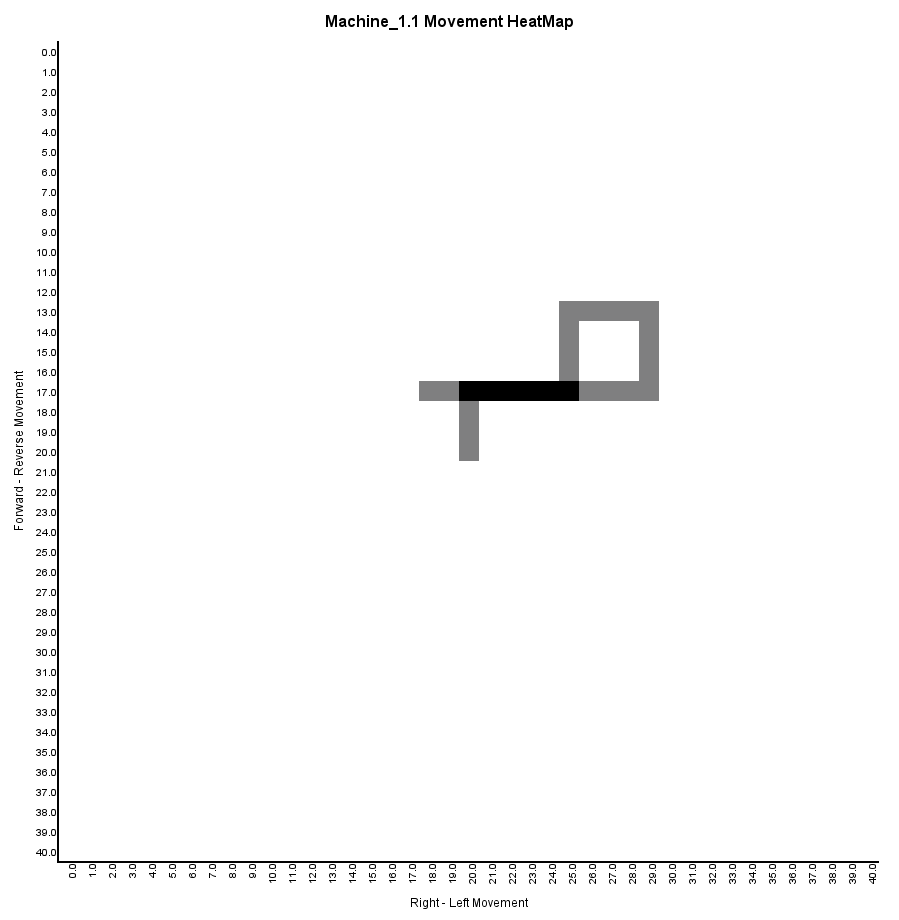
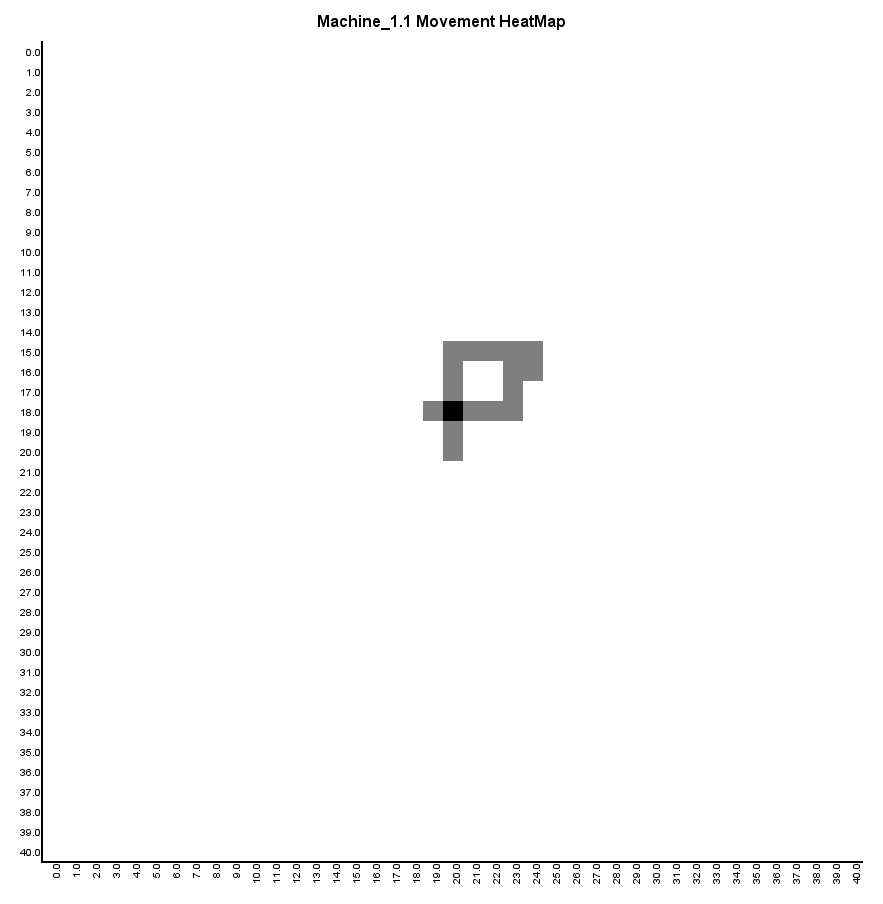
Completed rough version of blended heatchart + map image

Changed region(s): [[0.0, 0.031, 0.9785, 0.9912], [0.4587, 0.3097, 0.7339, 0.5265], [0.3669, 0.0, 0.6421, 0.031]]

diff --git a/src/main/java/AddingImagesRun.java b/src/main/java/AddingImagesRun.java
@@ -1,0 +1,32 @@
+import org.opencv.core.Core;
+import org.opencv.core.Mat;
+import org.opencv.highgui.HighGui;
+import org.opencv.imgcodecs.Imgcodecs;
+
+import java.util.Locale;
+import java.util.Scanner;
+
+public class AddingImagesRun {
+
+    public void run() {
+        double alpha = 0.3; double beta = 0.5;
+
+        /** Three matrixes which will be used */
+        Mat src1, src2, dst = new Mat();
+
+        /** 2 source images which are to be added, NEED TO BE OF SAME SIZES */
+        src1 = Imgcodecs.imread("src/SessionData/navigation-heatChart.png");       // value of alpha
+        src2 = Imgcodecs.imread("src/SessionData/GoogleMaps.png");      // value of Beta
+
+
+        /** This method generates result image in dsk matrix */
+        Core.addWeighted( src1, alpha, src2, beta, 0.0, dst);
+
+        Imgcodecs.imwrite("src/SessionData/blendedNavHeatChart.png",dst);
+
+//        HighGui.imshow("Linear Blend", dst);
+//        HighGui.waitKey(0);
+//        System.exit(0);
+    }
+
+}

diff --git a/src/main/java/NavigationPanelController.java b/src/main/java/NavigationPanelController.java
@@ -185,6 +185,9 @@ public class NavigationPanelController {
         HeatMapGenerator.heatChartGenerator(direction, distance);
         HeatMapGenerator.heatMapGeneration();
 
+        /** Responsible for creating blended heatChart with maps*/
+        new AddingImagesRun().run();
+
         /** Periodically check for battery status after each key release*/
         batteryStatusChecker();
 

diff --git a/src/main/java/HeatMapGenerator.java b/src/main/java/HeatMapGenerator.java
@@ -83,8 +83,6 @@ public class HeatMapGenerator {
         HeatChart heatChartObj = new HeatChart(heatChartData);
 
         heatChartObj.setTitle("Machine_1.1 Movement HeatMap");
-        heatChartObj.setXAxisLabel("Right - Left Movement");
-        heatChartObj.setYAxisLabel("Forward - Reverse Movement");
 
         heatChartObj.saveToFile(new File(Constants.save_heatMapDirectory));
     }

diff --git a/src/main/java/Main.java b/src/main/java/Main.java
@@ -16,6 +16,7 @@ public class Main extends Application {
 
     public static void main(String[] args) {
         System.loadLibrary( Core.NATIVE_LIBRARY_NAME );
+
         launch(args);
     }
 
